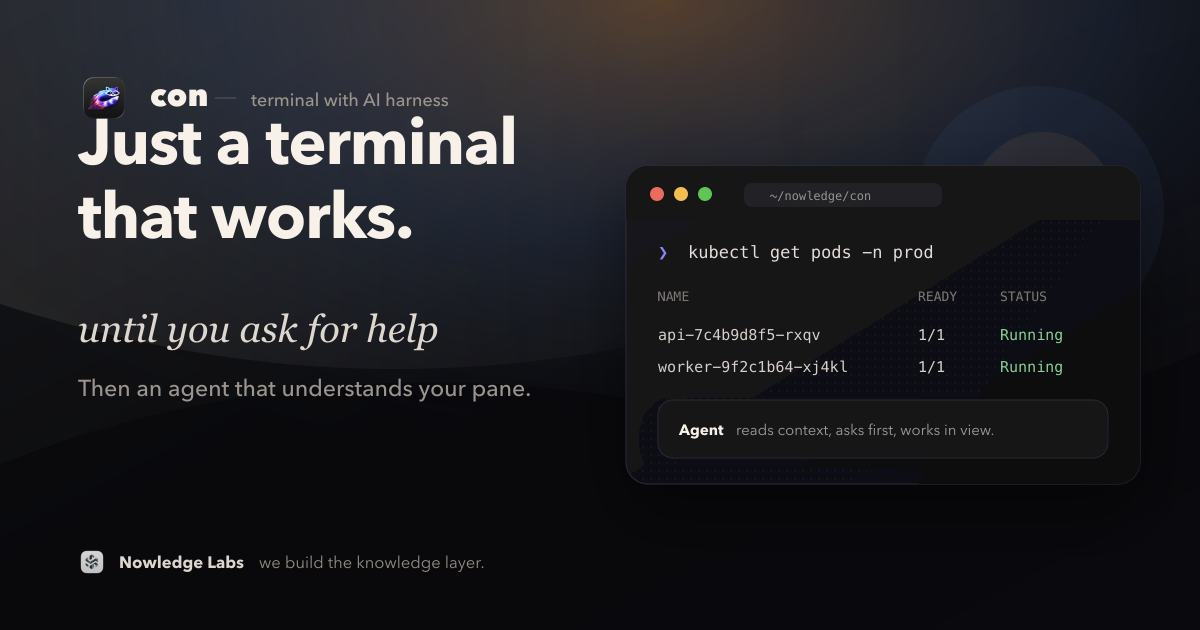
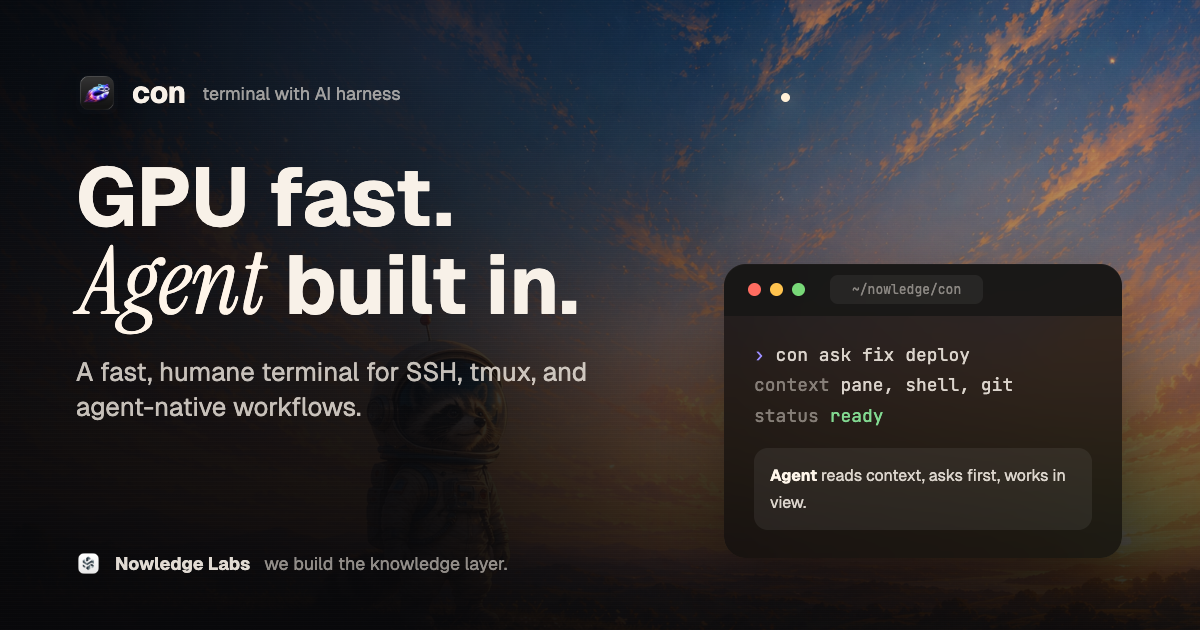
polishing og

diff --git a/og-image/index.html b/og-image/index.html
@@ -1,0 +1,253 @@
+<!doctype html>
+<html lang="en">
+<head>
+<meta charset="utf-8"/>
+<meta name="viewport" content="width=1200,initial-scale=1"/>
+<title>con OG image</title>
+<link rel="preconnect" href="https://fonts.googleapis.com"/>
+<link rel="preconnect" href="https://fonts.gstatic.com" crossorigin/>
+<link href="https://fonts.googleapis.com/css2?family=Geist:wght@400;500;600;700&family=Instrument+Serif:ital@0;1&family=JetBrains+Mono:wght@400;500&display=swap" rel="stylesheet"/>
+<style>
+* { box-sizing: border-box; }
+html,
+body {
+  margin: 0;
+  width: 1200px;
+  height: 630px;
+  overflow: hidden;
+  background: #09090b;
+}
+body {
+  font-family: "Geist", ui-sans-serif, system-ui, -apple-system, sans-serif;
+  color: #f8f1e8;
+}
+.og {
+  position: relative;
+  width: 1200px;
+  height: 630px;
+  overflow: hidden;
+  background: #0b0c0e;
+  isolation: isolate;
+}
+.og::before {
+  content: "";
+  position: absolute;
+  inset: 0;
+  background-image:
+    linear-gradient(90deg, rgba(7, 7, 9, 0.94) 0%, rgba(7, 7, 9, 0.84) 34%, rgba(7, 7, 9, 0.34) 66%, rgba(7, 7, 9, 0.18) 100%),
+    linear-gradient(180deg, rgba(17, 21, 31, 0.08) 0%, rgba(8, 8, 10, 0.22) 52%, rgba(4, 4, 6, 0.86) 100%),
+    url("../assets/bg-with-coon.png");
+  background-size: cover;
+  background-position: center 49%;
+  transform: scale(1.01);
+  z-index: -3;
+}
+.og::after {
+  content: "";
+  position: absolute;
+  inset: 0;
+  background:
+    radial-gradient(circle at 82% 26%, rgba(246, 190, 116, 0.22), transparent 28%),
+    radial-gradient(circle at 35% 8%, rgba(104, 133, 194, 0.18), transparent 34%),
+    linear-gradient(180deg, transparent 0%, rgba(2, 2, 4, 0.62) 100%);
+  mix-blend-mode: screen;
+  opacity: 0.72;
+  z-index: -2;
+}
+.grain {
+  position: absolute;
+  inset: 0;
+  background-image:
+    repeating-linear-gradient(0deg, rgba(255, 255, 255, 0.018) 0, rgba(255, 255, 255, 0.018) 1px, transparent 1px, transparent 4px);
+  opacity: 0.44;
+  z-index: -1;
+}
+.content {
+  position: absolute;
+  inset: 72px 76px 54px;
+  display: flex;
+  flex-direction: column;
+}
+.brand {
+  display: flex;
+  align-items: center;
+  gap: 14px;
+  height: 42px;
+}
+.brand img {
+  width: 42px;
+  height: 42px;
+  border-radius: 10px;
+  box-shadow: 0 14px 40px rgba(0, 0, 0, 0.42);
+}
+.brand-name {
+  font-size: 30px;
+  line-height: 1;
+  font-weight: 700;
+  letter-spacing: 0;
+}
+.brand-kicker {
+  font-size: 18px;
+  color: rgba(248, 241, 232, 0.62);
+  letter-spacing: 0;
+  margin-left: 2px;
+}
+.headline {
+  margin: 44px 0 0;
+  max-width: 630px;
+  font-size: 82px;
+  line-height: 0.96;
+  font-weight: 700;
+  letter-spacing: 0;
+  text-wrap: balance;
+}
+.headline span {
+  display: block;
+}
+.headline em {
+  display: inline-block;
+  margin-left: 4px;
+  font-family: "Instrument Serif", Georgia, serif;
+  font-size: 94px;
+  font-weight: 400;
+  font-style: italic;
+  letter-spacing: 0;
+  color: #fff5e9;
+}
+.subhead {
+  margin: 28px 0 0;
+  max-width: 560px;
+  color: rgba(248, 241, 232, 0.78);
+  font-size: 26px;
+  line-height: 1.34;
+  letter-spacing: 0;
+}
+.terminal {
+  position: absolute;
+  right: 78px;
+  bottom: 72px;
+  width: 398px;
+  border-radius: 22px;
+  background: rgba(11, 11, 13, 0.72);
+  box-shadow:
+    0 32px 84px rgba(0, 0, 0, 0.45),
+    inset 0 1px 0 rgba(255, 255, 255, 0.1);
+  overflow: hidden;
+  backdrop-filter: blur(24px) saturate(1.22);
+}
+.terminal-top {
+  height: 52px;
+  display: flex;
+  align-items: center;
+  gap: 9px;
+  padding: 0 24px;
+  background: rgba(22, 21, 20, 0.82);
+}
+.dot {
+  width: 13px;
+  height: 13px;
+  border-radius: 999px;
+}
+.red { background: #ff6c60; }
+.amber { background: #ffc34e; }
+.green { background: #78d878; }
+.path {
+  margin-left: 16px;
+  padding: 6px 22px;
+  border-radius: 8px;
+  background: rgba(255, 255, 255, 0.06);
+  color: rgba(248, 241, 232, 0.48);
+  font-family: "JetBrains Mono", ui-monospace, monospace;
+  font-size: 13px;
+}
+.terminal-body {
+  padding: 24px 30px 28px;
+  font-family: "JetBrains Mono", ui-monospace, monospace;
+  font-size: 18px;
+  line-height: 1.7;
+  color: rgba(248, 241, 232, 0.86);
+}
+.prompt { color: #9b8dff; }
+.ok { color: #82d991; }
+.dim { color: rgba(248, 241, 232, 0.46); }
+.agent {
+  margin-top: 16px;
+  padding: 14px 16px;
+  border-radius: 14px;
+  background: rgba(255, 255, 255, 0.065);
+  font-family: "Geist", ui-sans-serif, sans-serif;
+  font-size: 16px;
+  letter-spacing: 0;
+}
+.agent strong {
+  color: #fff6ea;
+  font-weight: 700;
+}
+.foot {
+  margin-top: auto;
+  display: flex;
+  align-items: center;
+  gap: 14px;
+  color: rgba(248, 241, 232, 0.56);
+  font-size: 18px;
+  letter-spacing: 0;
+}
+.foot img {
+  width: 25px;
+  height: 25px;
+  border-radius: 7px;
+}
+.foot strong {
+  color: rgba(248, 241, 232, 0.9);
+  font-weight: 700;
+}
+.spark {
+  position: absolute;
+  right: 410px;
+  top: 93px;
+  width: 9px;
+  height: 9px;
+  border-radius: 999px;
+  background: #fff0d7;
+  box-shadow: 0 0 24px rgba(255, 228, 187, 0.9);
+}
+</style>
+</head>
+<body>
+  <main class="og" aria-label="con social preview">
+    <div class="grain"></div>
+    <div class="spark"></div>
+    <section class="content">
+      <div class="brand">
+        <img src="../assets/icon_con_black.png" alt=""/>
+        <div class="brand-name">con</div>
+        <div class="brand-kicker">terminal with AI harness</div>
+      </div>
+      <h1 class="headline">
+        <span>GPU fast.</span>
+        <span><em>Agent</em> built in.</span>
+      </h1>
+      <p class="subhead">A fast, humane terminal for SSH, tmux, and agent-native workflows.</p>
+      <div class="foot">
+        <img src="../assets/nowledge-labs-icon.png" alt=""/>
+        <strong>Nowledge Labs</strong>
+        <span>we build the knowledge layer.</span>
+      </div>
+    </section>
+    <aside class="terminal" aria-hidden="true">
+      <div class="terminal-top">
+        <span class="dot red"></span>
+        <span class="dot amber"></span>
+        <span class="dot green"></span>
+        <span class="path">~/nowledge/con</span>
+      </div>
+      <div class="terminal-body">
+        <div><span class="prompt">›</span> con ask fix deploy</div>
+        <div><span class="dim">context</span> pane, shell, git</div>
+        <div><span class="dim">status</span> <span class="ok">ready</span></div>
+        <div class="agent"><strong>Agent</strong> reads context, asks first, works in view.</div>
+      </div>
+    </aside>
+  </main>
+</body>
+</html>

diff --git a/index.html b/index.html
@@ -18,21 +18,24 @@
 <meta property="og:url" content="https://con.nowledge.co/"/>
 <meta property="og:site_name" content="con"/>
 <meta property="og:locale" content="en_US"/>
-<meta property="og:image" content="https://con.nowledge.co/assets/og-con.png"/>
-<meta property="og:image:secure_url" content="https://con.nowledge.co/assets/og-con.png"/>
-<meta property="og:image:type" content="image/png"/>
+<meta property="og:image" content="https://con.nowledge.co/assets/og-con.jpg?v=20260429b"/>
+<meta property="og:image:url" content="https://con.nowledge.co/assets/og-con.jpg?v=20260429b"/>
+<meta property="og:image:secure_url" content="https://con.nowledge.co/assets/og-con.jpg?v=20260429b"/>
+<meta property="og:image:type" content="image/jpeg"/>
 <meta property="og:image:width" content="1200"/>
 <meta property="og:image:height" content="630"/>
-<meta property="og:image:alt" content="con terminal with built-in AI agent panel"/>
+<meta property="og:image:alt" content="con terminal emulator hero preview"/>
 <meta property="og:type" content="website"/>
 <meta name="twitter:card" content="summary_large_image"/>
 <meta name="twitter:site" content="@nowledgelabs"/>
 <meta name="twitter:creator" content="@nowledgelabs"/>
 <meta name="twitter:title" content="con: terminal emulator with AI harness"/>
 <meta name="twitter:description" content="Just a terminal that works, until you ask for help."/>
-<meta name="twitter:image" content="https://con.nowledge.co/assets/og-con.png"/>
-<meta name="twitter:image:src" content="https://con.nowledge.co/assets/og-con.png"/>
-<meta name="twitter:image:alt" content="con terminal with built-in AI agent panel"/>
+<meta name="twitter:image" content="https://con.nowledge.co/assets/og-con.jpg?v=20260429b"/>
+<meta name="twitter:image:src" content="https://con.nowledge.co/assets/og-con.jpg?v=20260429b"/>
+<meta name="twitter:image:width" content="1200"/>
+<meta name="twitter:image:height" content="630"/>
+<meta name="twitter:image:alt" content="con terminal emulator hero preview"/>
 <meta name="theme-color" content="#0b0b0d"/>
 <meta name="color-scheme" content="dark light"/>
 <link rel="icon" href="assets/icon_con_black.png"/>
@@ -53,7 +56,7 @@
   "codeRepository": "https://github.com/nowledge-co/con-terminal",
   "description": "Open-source, GPU-accelerated terminal emulator with a built-in AI harness for SSH, tmux, and agent-native workflows.",
   "license": "https://github.com/nowledge-co/con-terminal/blob/main/LICENSE",
-  "image": "https://con.nowledge.co/assets/og-con.png",
+  "image": "https://con.nowledge.co/assets/og-con.jpg?v=20260429b",
   "publisher": {
     "@type": "Organization",
     "name": "Nowledge Labs",

diff --git a/.impeccable.md b/.impeccable.md
@@ -1,0 +1,17 @@
+## Design Context
+
+### Users
+Developers, terminal-heavy engineers, and AI-agent power users evaluating con as a serious daily terminal with an agent harness built into the workflow.
+
+### Brand Personality
+Fast, humane, precise. The brand should feel competent and quietly memorable: technical enough for serious engineers, but warmer than a conventional developer-tool landing page.
+
+### Aesthetic Direction
+Refined cinematic dark interface with restrained warmth, crisp typography, and product-native details. Use the existing con icon, Nowledge Labs mark, night-sky/raccoon hero artwork, and terminal/agent language. Avoid generic neon cyberpunk, busy gradient cards, and template-like SaaS hero layouts.
+
+### Design Principles
+- Lead with a clear product signal in the first viewport and in social cards.
+- Keep typography strong, spacious, and readable at small preview sizes.
+- Use delight through one or two memorable brand details, not decorative clutter.
+- Favor tinted dark neutrals, warm off-white text, and subtle green/amber terminal accents.
+- Treat social preview images as product artifacts: exact 1200x630 framing, absolute metadata, and crawler-safe static assets.
